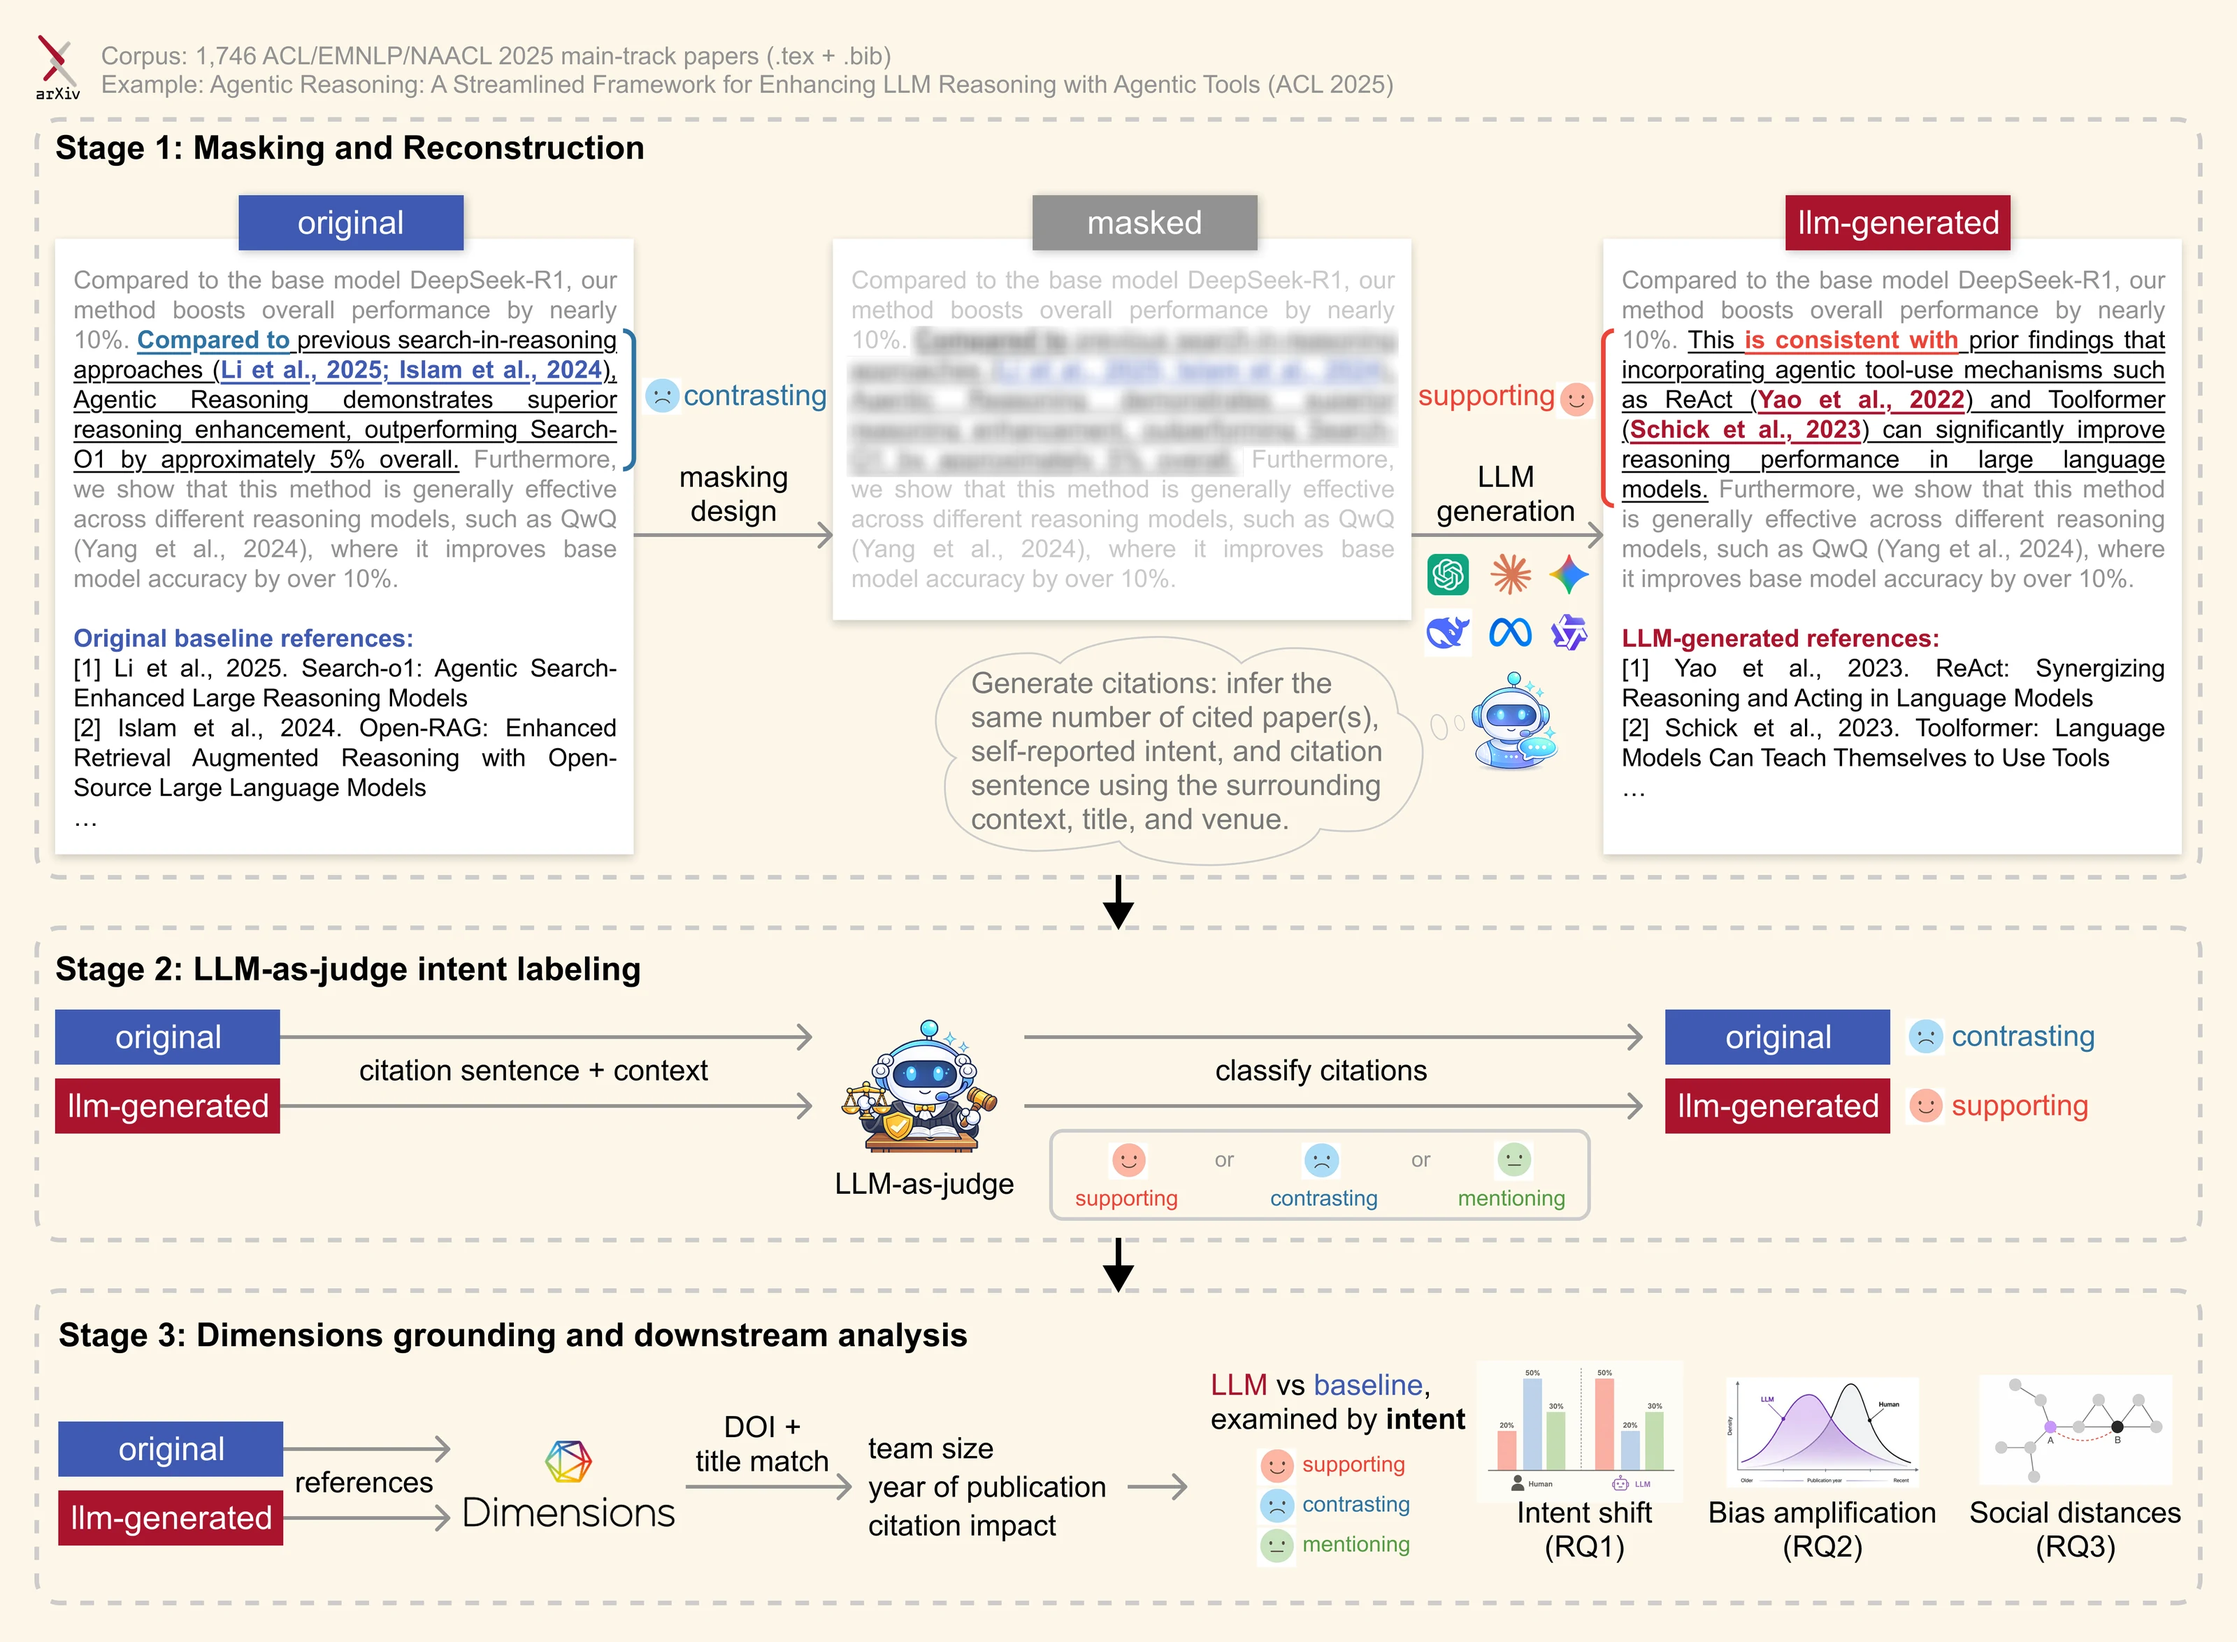
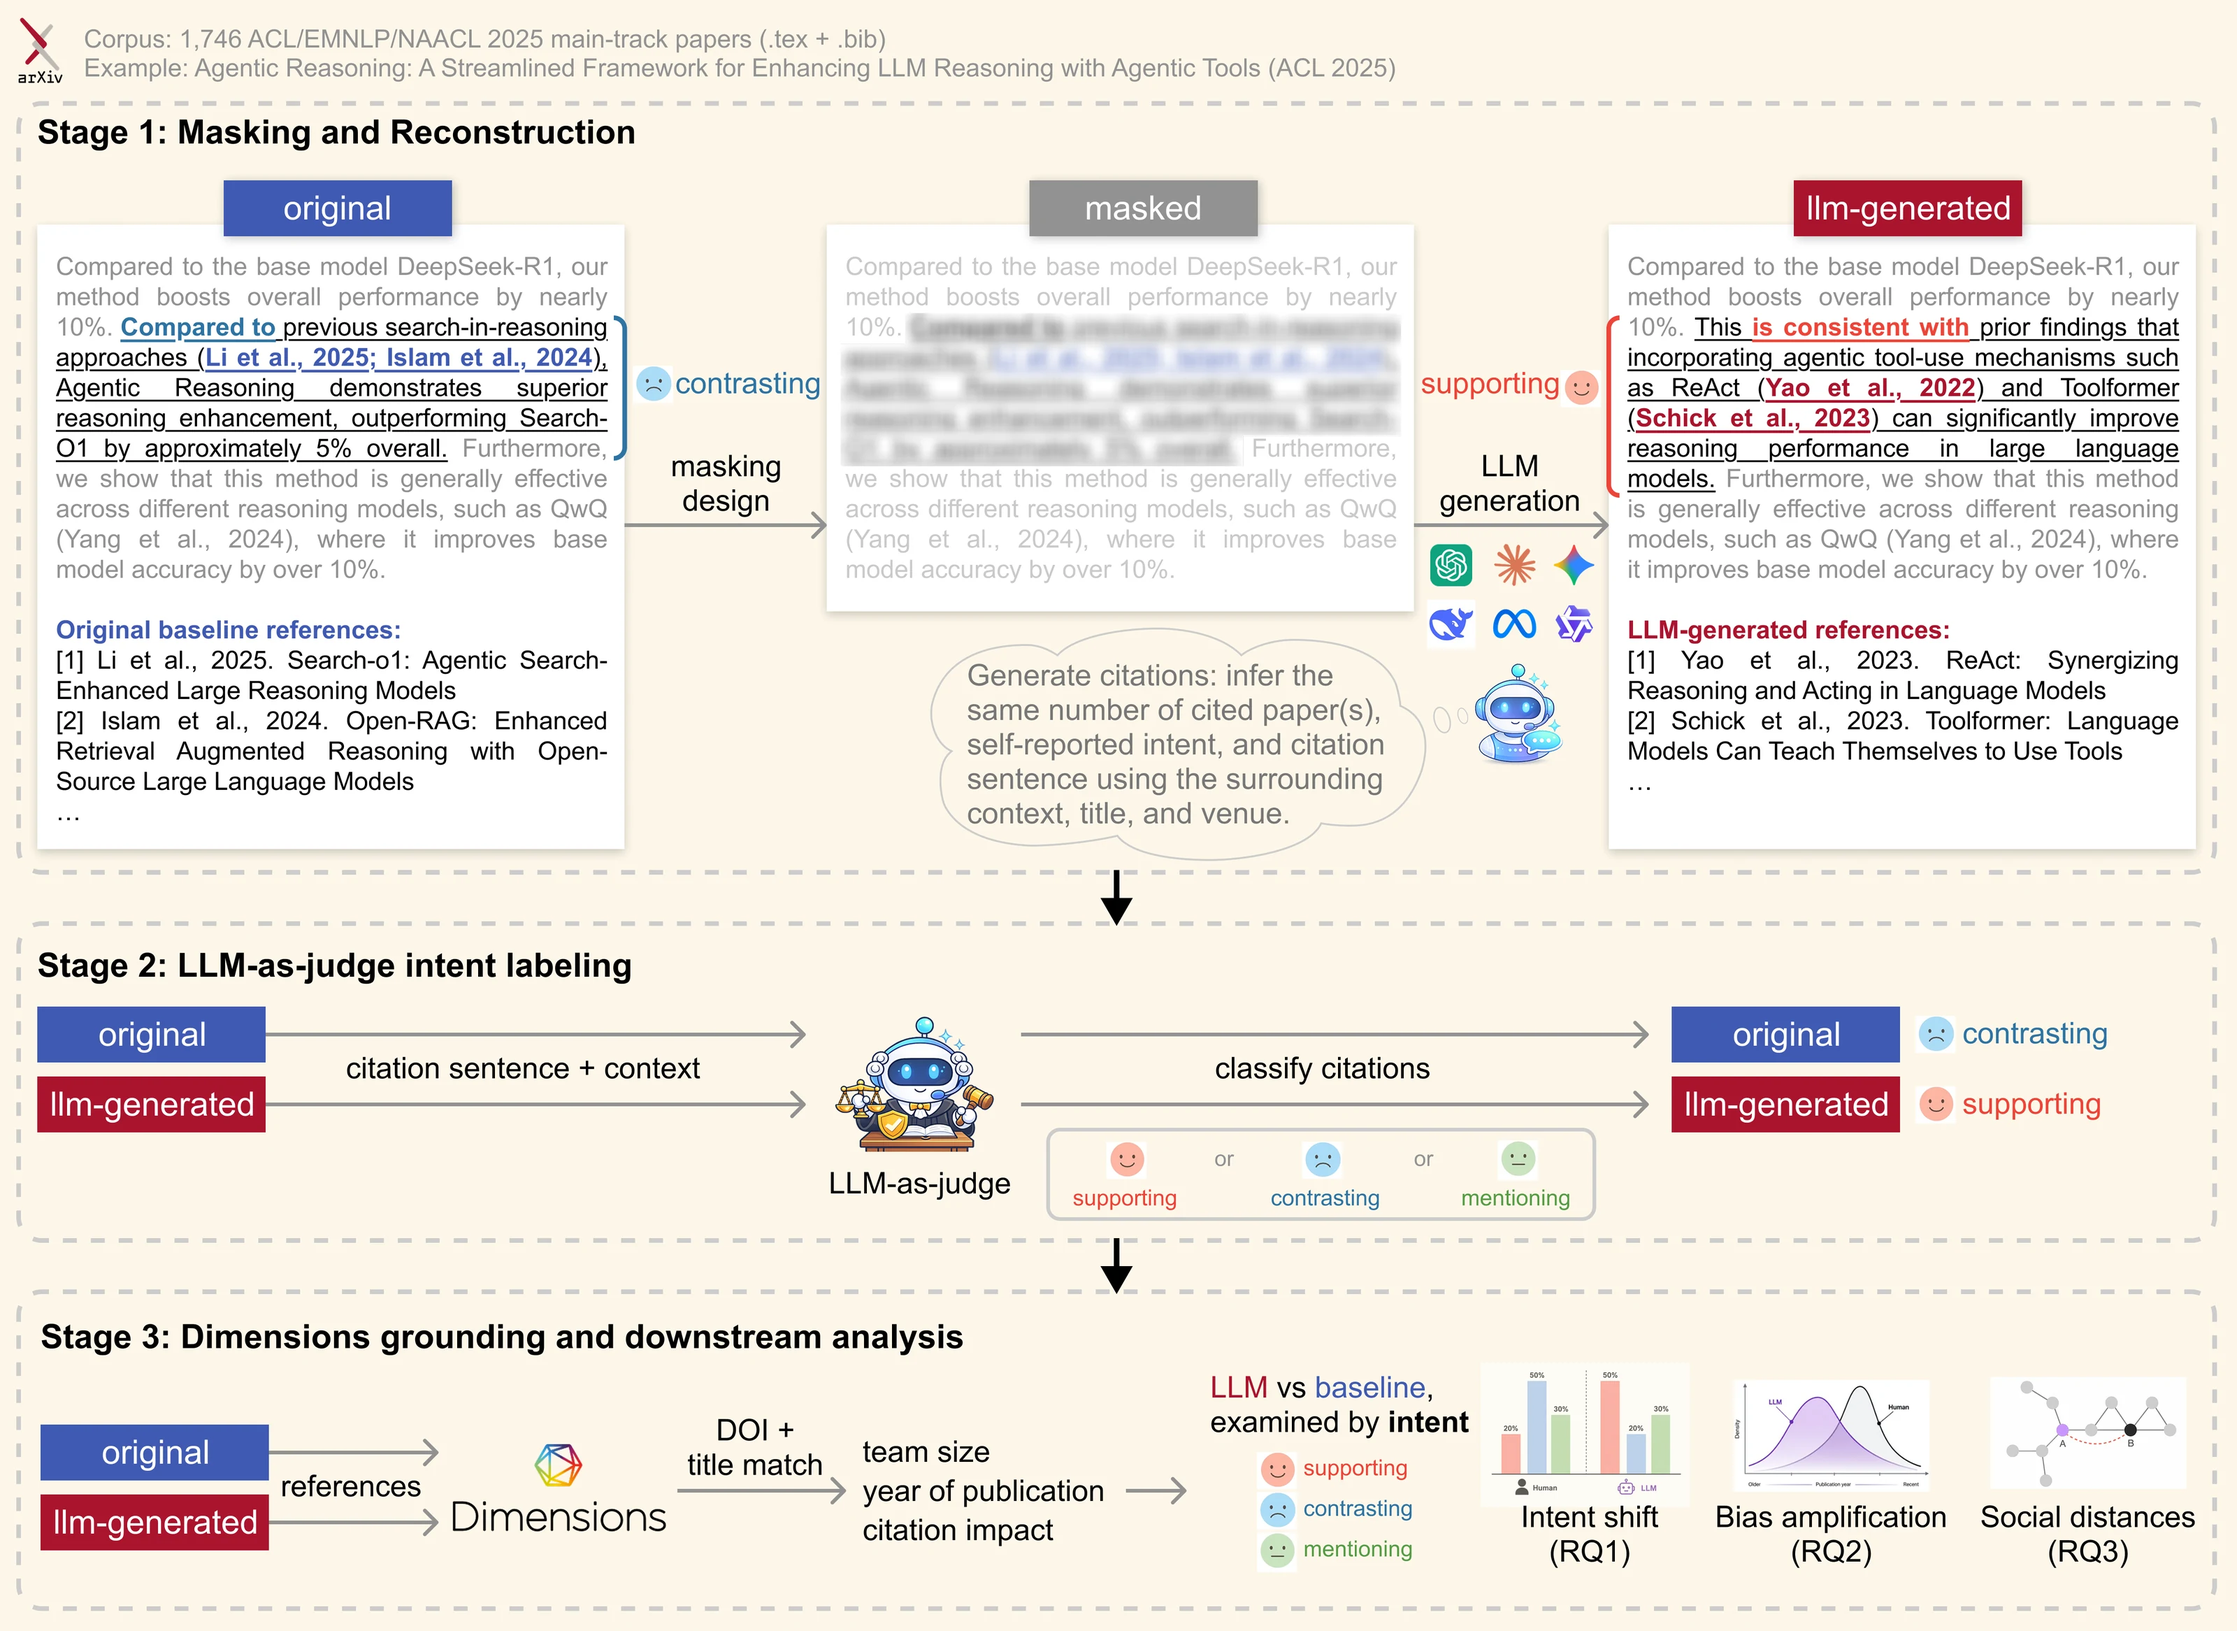
Sentence case, like every other case study, and the new figure
Citing Less Critically was the only project setting its sections in title
case; the other fourteen were already sentence case. `Outcome & Takeaway`
becomes `Outcome and takeaway`, which also clears the double hyphen the
ampersand left in its anchor.

Figure 1 re-exported from the updated master. Slightly tighter margins, so
the declared height moves with it.

diff --git a/src/content/projects/citing-less-critically.md b/src/content/projects/citing-less-critically.md
@@ -38,7 +38,7 @@ Cover must be a redrawn version of Figure 1 or Figure 4a, not the typeset
 version lifted from the PDF.
 -->
 
-## Explaining the Research Framework
+## Explaining the research framework
 
 Scientific citations can support, contrast with, or simply mention prior research. This
 study asks whether LLMs make the same rhetorical choices as human authors when filling
@@ -73,7 +73,7 @@ through bibliographic grounding.
     src="/media/citing-less-critically/figure-1.webp"
     alt="The three-stage framework. Stage 1 puts the original citation sentence, the masked version and the LLM-generated version side by side with their reference lists. Stage 2 sends both the original and generated sentences to an LLM judge, which returns supporting, contrasting or mentioning. Stage 3 matches both sets of references in Dimensions and carries team size, publication year and citation impact into the three research questions."
     width="3200"
-    height="2348"
+    height="2333"
     loading="lazy"
     decoding="async"
   />
@@ -81,7 +81,7 @@ through bibliographic grounding.
 </figure>
 
 
-## Rebuilding the Framework After Peer Review
+## Rebuilding the framework after peer review
 
 **Figure 1, the framework diagram.** Three stages, one citation slot travelling through all of them: the human original, the masked version, the model's replacement. The difficulty is not drawing boxes. It is that stages run in sequence while six models run in parallel inside stage one, and both have to be legible in one static frame. The three versions of the sentence sit on a shared horizontal line so a reader can compare them directly, with the stage boundaries carrying the sequence.
 
@@ -96,7 +96,7 @@ Every frame is still on the Figma canvas, before and after, from `plot_diagram 2
 The reason this is worth more than the final figure alone: the critique came from an anonymous expert reviewing the work for publication, the response is traceable frame by frame, and the result cleared a main-conference review. Self-directed iteration is easy to claim. This is the other kind.
 
 
-## Grounding 132,913 Citations
+## Grounding 132,913 citations
 
 The study needed three things that are easy to state and hard to build: a way to compare human and model citation behaviour at the same position in the same sentence, a way to label what a citation is rhetorically doing, and a way to look up what each cited paper actually is.
 
@@ -134,7 +134,7 @@ Match reporting is per-tier, so the contribution of exact versus fuzzy matching 
 </details>
 
 
-## Making Social Distance Visible
+## Making social distance visible
 
 **Figure 4a, the distance schematic.** The paper measures social distance as the mean shortest path across four author-role pairs between the citing and cited papers. As a formula nobody reads it. As a picture of two named papers with four paths drawn between their first and last authors, and the four numbers averaged, a reader sees where a value of 2.25 comes from. It is the only purely explanatory figure in the paper; everything else plots results.
 
@@ -143,14 +143,14 @@ Match reporting is per-tier, so the contribution of exact versus fuzzy matching 
 Figure 4a took one pass and one round of minor type-size adjustment. Put next to Figure 1 that contrast says the useful thing: the difficulty is not in the drawing, it is in how many levels of structure the subject has. One abstract measure needs one worked example. A three-stage pipeline with parallel branches inside one stage needs its hierarchy sorted out before it can be read at all.
 
 
-## Validating Citation Intent with Humans
+## Validating citation intent with humans
 
 **The annotation rubric, and one of three annotation passes.** The three intent definitions the whole study runs on, supporting, contrasting and mentioning, were settled by the first three authors together, adapted from an existing citation-classification scheme. I then labelled a stratified sample of ninety citation sentences blind to the model labels and to the cited papers, as one of three annotators.
 
 That validation set is load-bearing. It answers the most obvious objection to the paper, which is that an LLM judge might simply read LLM-written prose as warmer. The warming appears in all three humans' labels too, in the same direction, so it is a property of the rewritten sentences rather than a judge preference.
 
 
-## Outcome & Takeaway
+## Outcome and takeaway
 
 Accepted at EMNLP 2026, main conference. Preprint and code are public.
 
